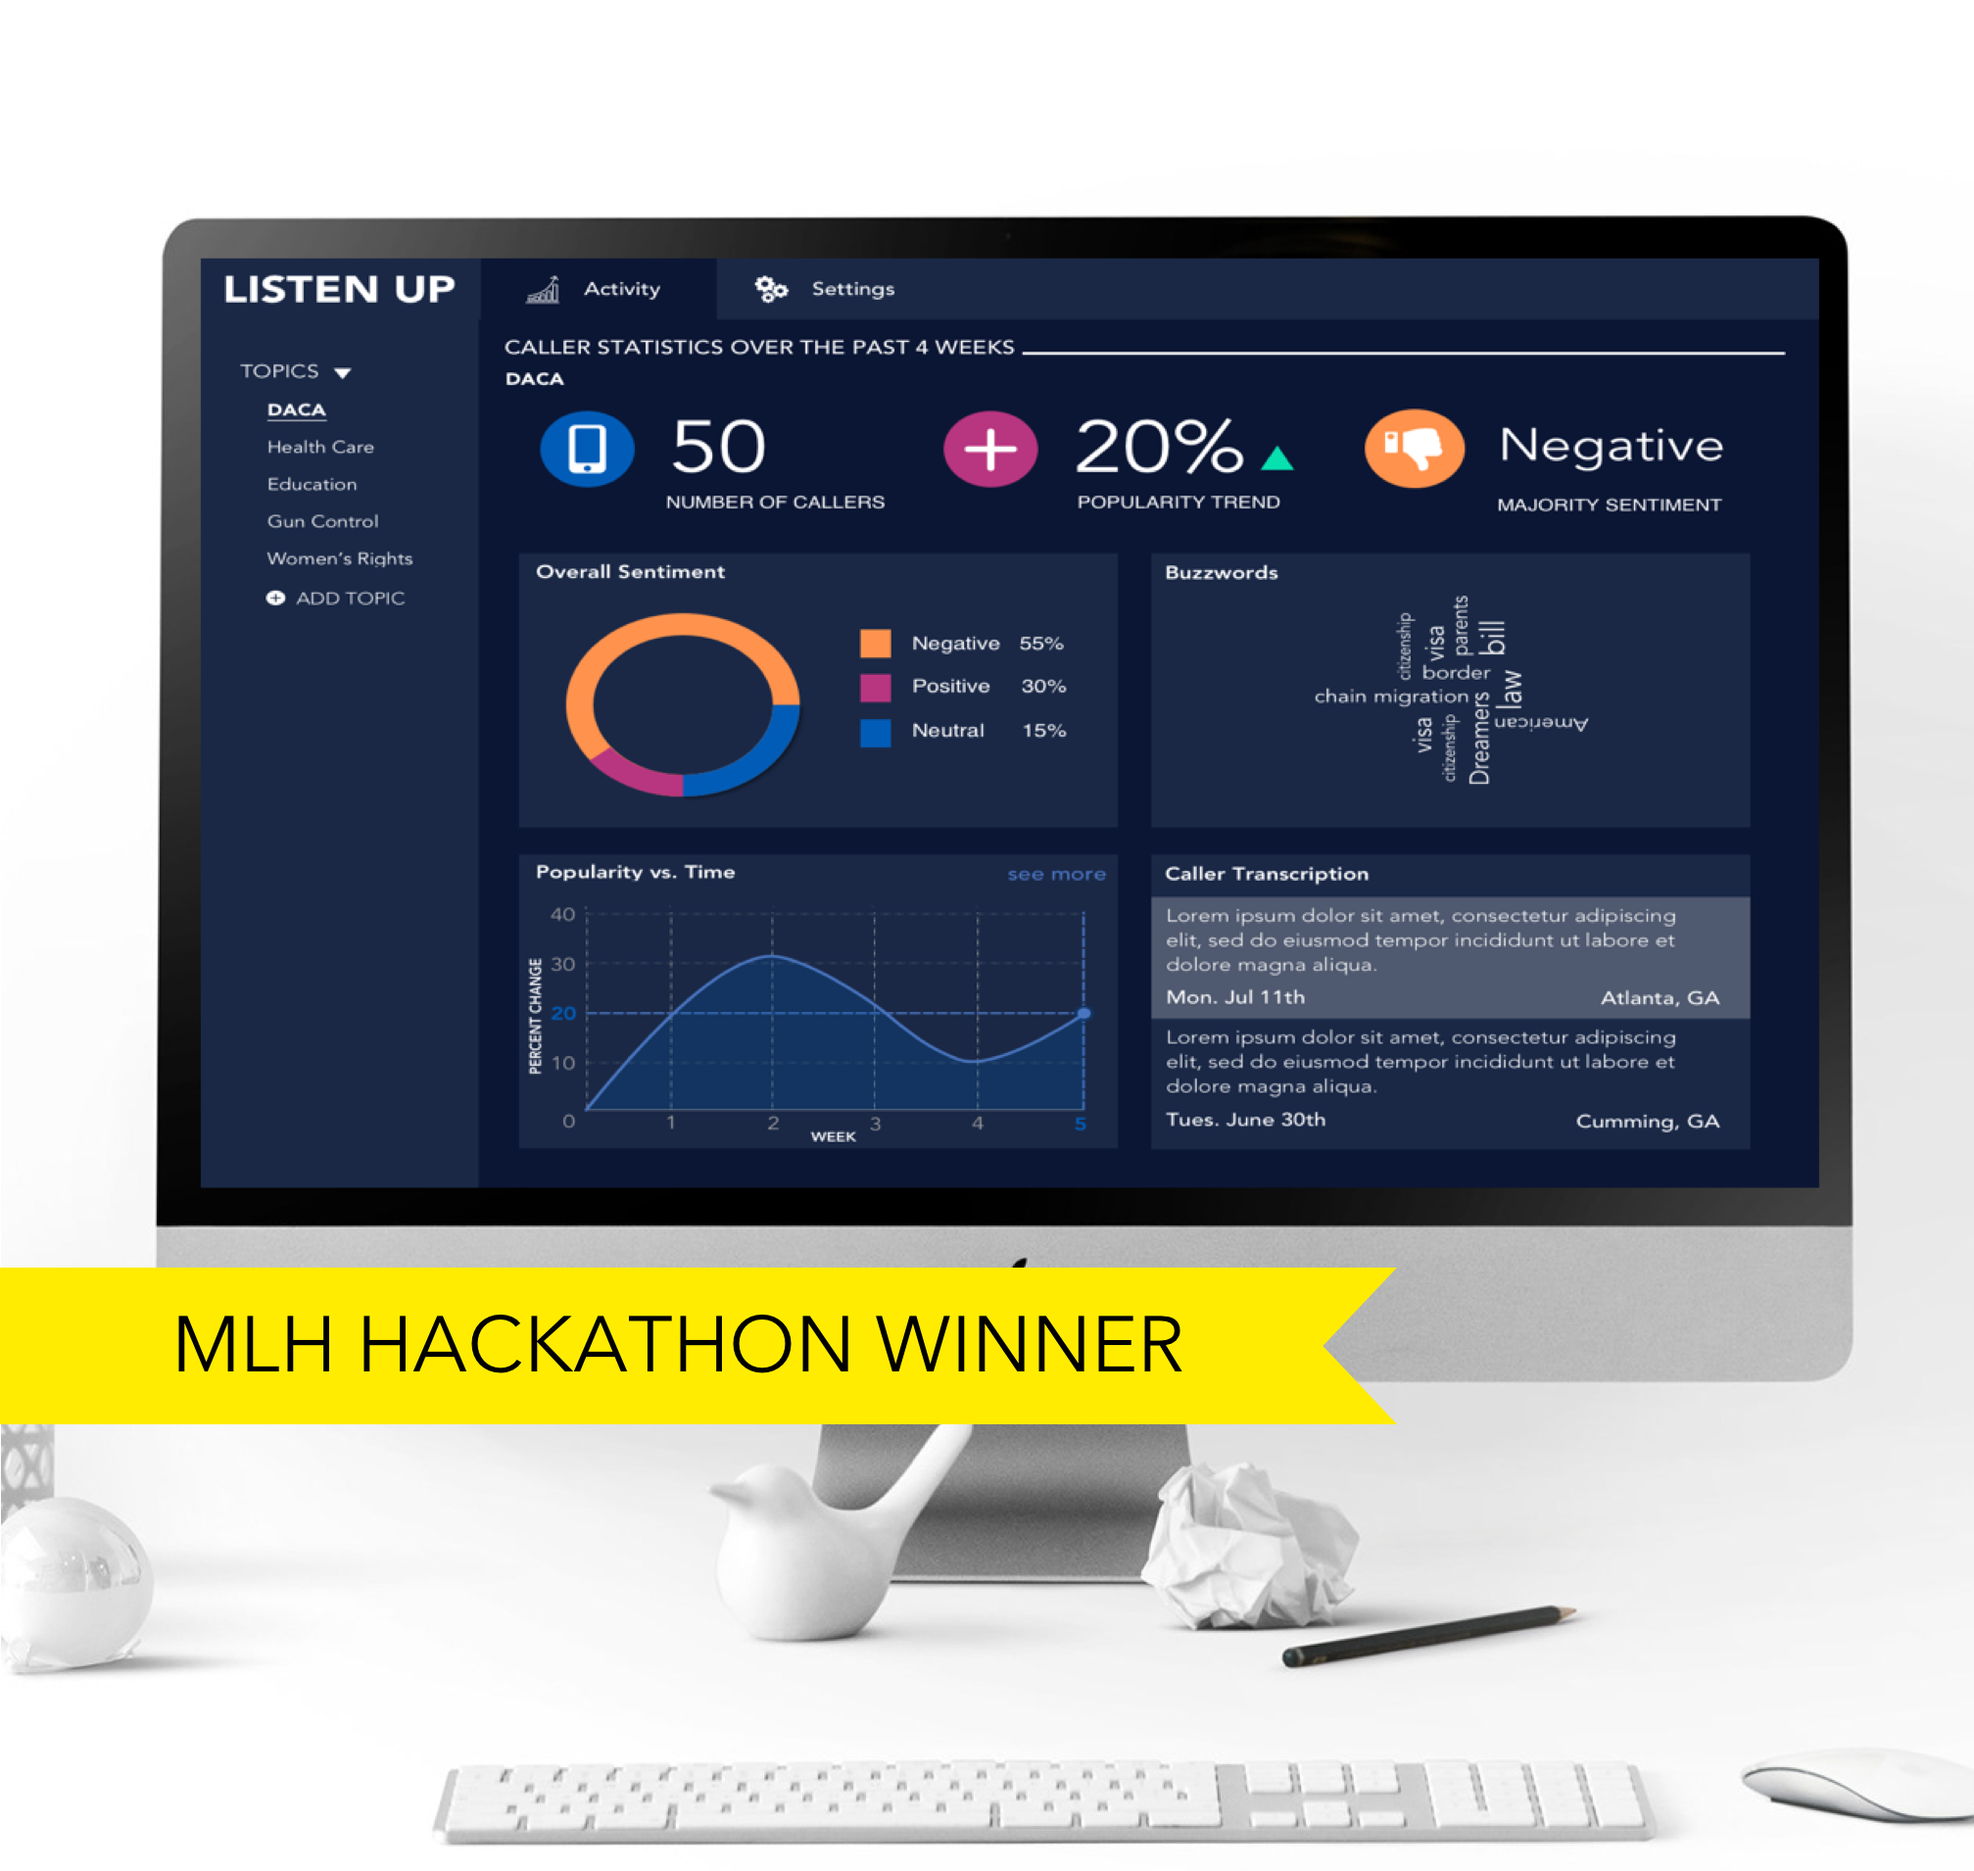
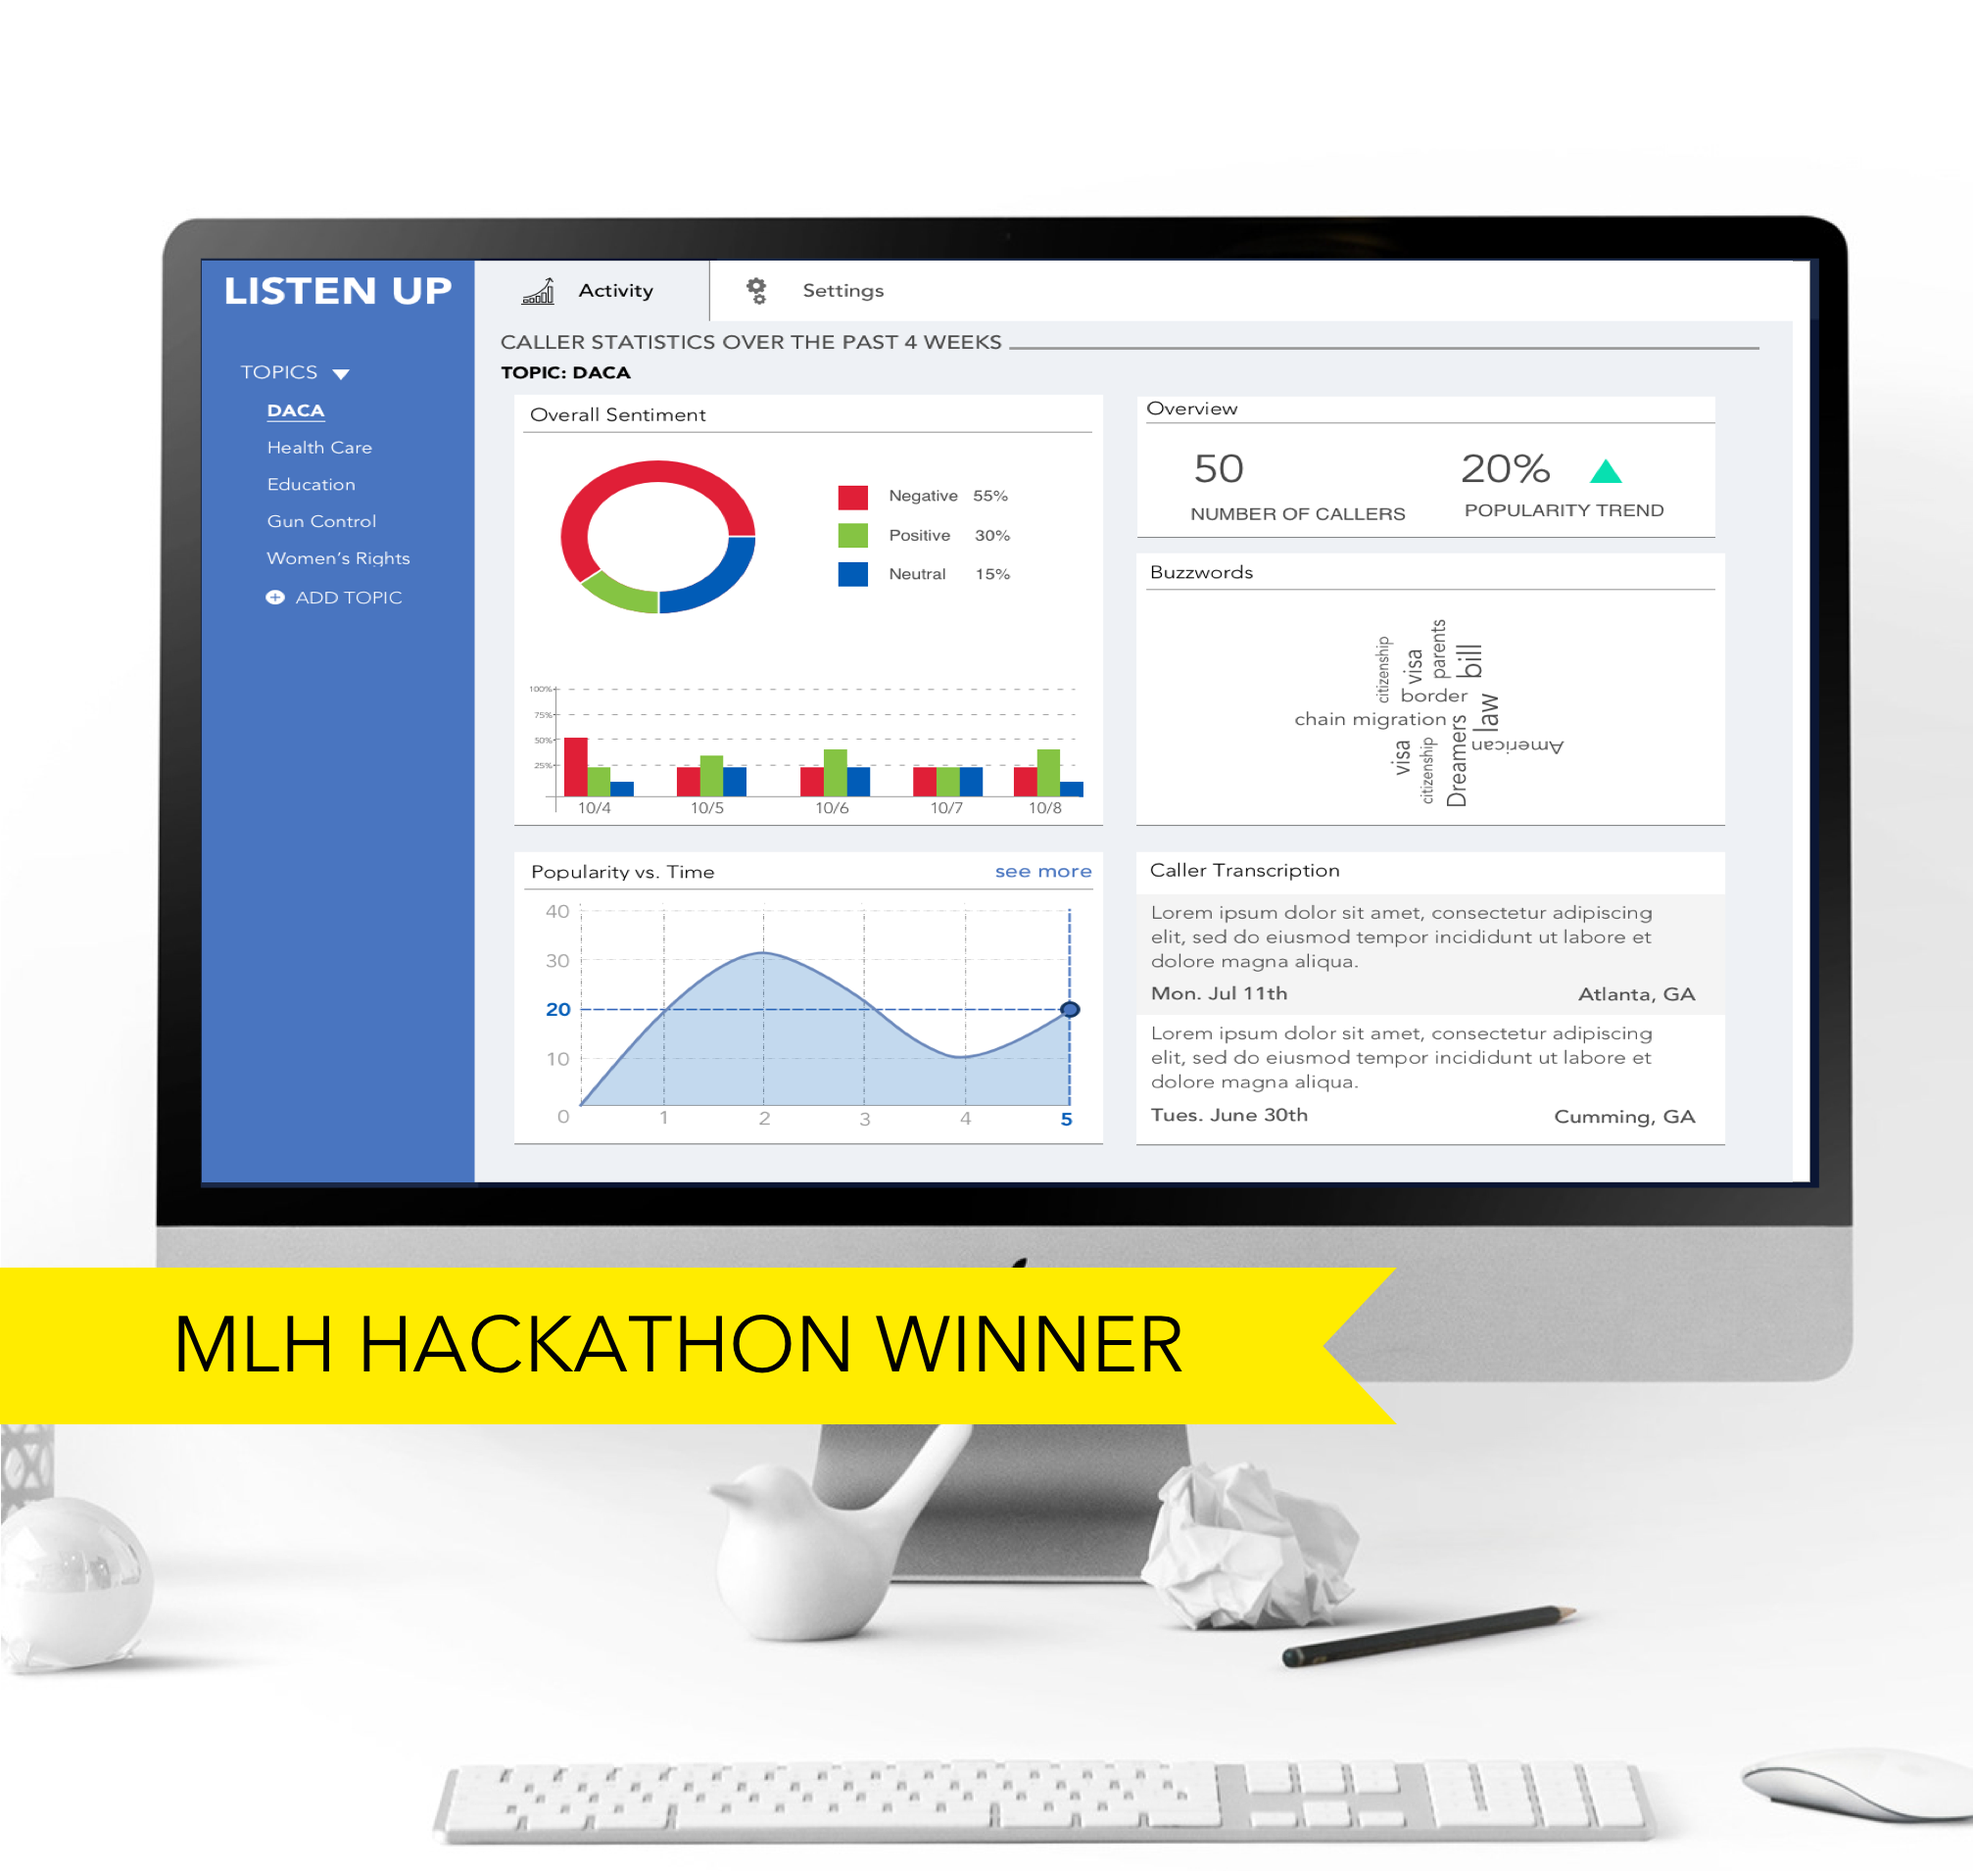
push listen up redo

diff --git a/listenup_detail.html b/listenup_detail.html
@@ -132,9 +132,15 @@
 					<p>In the wireframe below, I wanted to make the product look like a dashboard. I started with this constraint and considered what were the three most desired concepts necessary for a user. This included number of calls, a calls popularity and whether the overall sentiment was negative. Below I also included graphs that detailed more of that information and expanded upon the transcribed messages. We only had 36 hours to make the design and create the app. What do you think?</p>
 					<p class="animate-box"><img src="images/WireFramelistenUP.png" class="img-responsive" alt="Free HTML5 Template by FreeHTML5.co"></p>
 					<br>
-						 <h3>Final Design</h3>
-					<p>This is the final design that I was able to comp after the hackathon. I included dark colors and finished off the look. Some things I will think about for the next iteration is whether the colors truly communicate the messages, such as negative, positive or neutral.  You can check out the full devpost <a href="https://devpost.com/software/listenup-nx2dgz">here</a> </p>
+					<h3>Iteration #1</h3>
 					<p class="animate-box"><img src="images/complistenUP.png" class="img-responsive" alt="Free HTML5 Template by FreeHTML5.co"></p>
+					<p>This version has <b>dark colors</b> and the icons communicate a more playful feel. I also see the colors creating a more saturated screen and its hard to focus on one thing. The page doesn't call out one area and its harder to focus on visualization.</p>
+					<h3>Iteration #2</h3>
+					<p class="animate-box"><img src="images/ListenUP/newlayout.png" class="img-responsive" alt="Free HTML5 Template by FreeHTML5.co"></p>
+					<p>This visualization is more muted. There is not point where my eye is drawn more to than others and the data seems to have an equal focus. The information has a less playful vibe without icons and the colors communicate the positive and negative sentiments a lot clearer.</p>
+						 <h3>Final Design</h3>
+					<p>This is the final design that I was able to comp after the hackathon. I went with the muted tones and felt the colors communicated the negative, positive or neutral sentiments clearer.  You can check out the full devpost <a href="https://devpost.com/software/listenup-nx2dgz">here</a> </p>
+					<p class="animate-box"><img src="images/ListenUP/newlayout.png" class="img-responsive" alt="Free HTML5 Template by FreeHTML5.co"></p>
 					<h3>Future Additions</h3>
 					<ul>
 					  <li>Scale the web app to work across all emails and phone calls </li>
